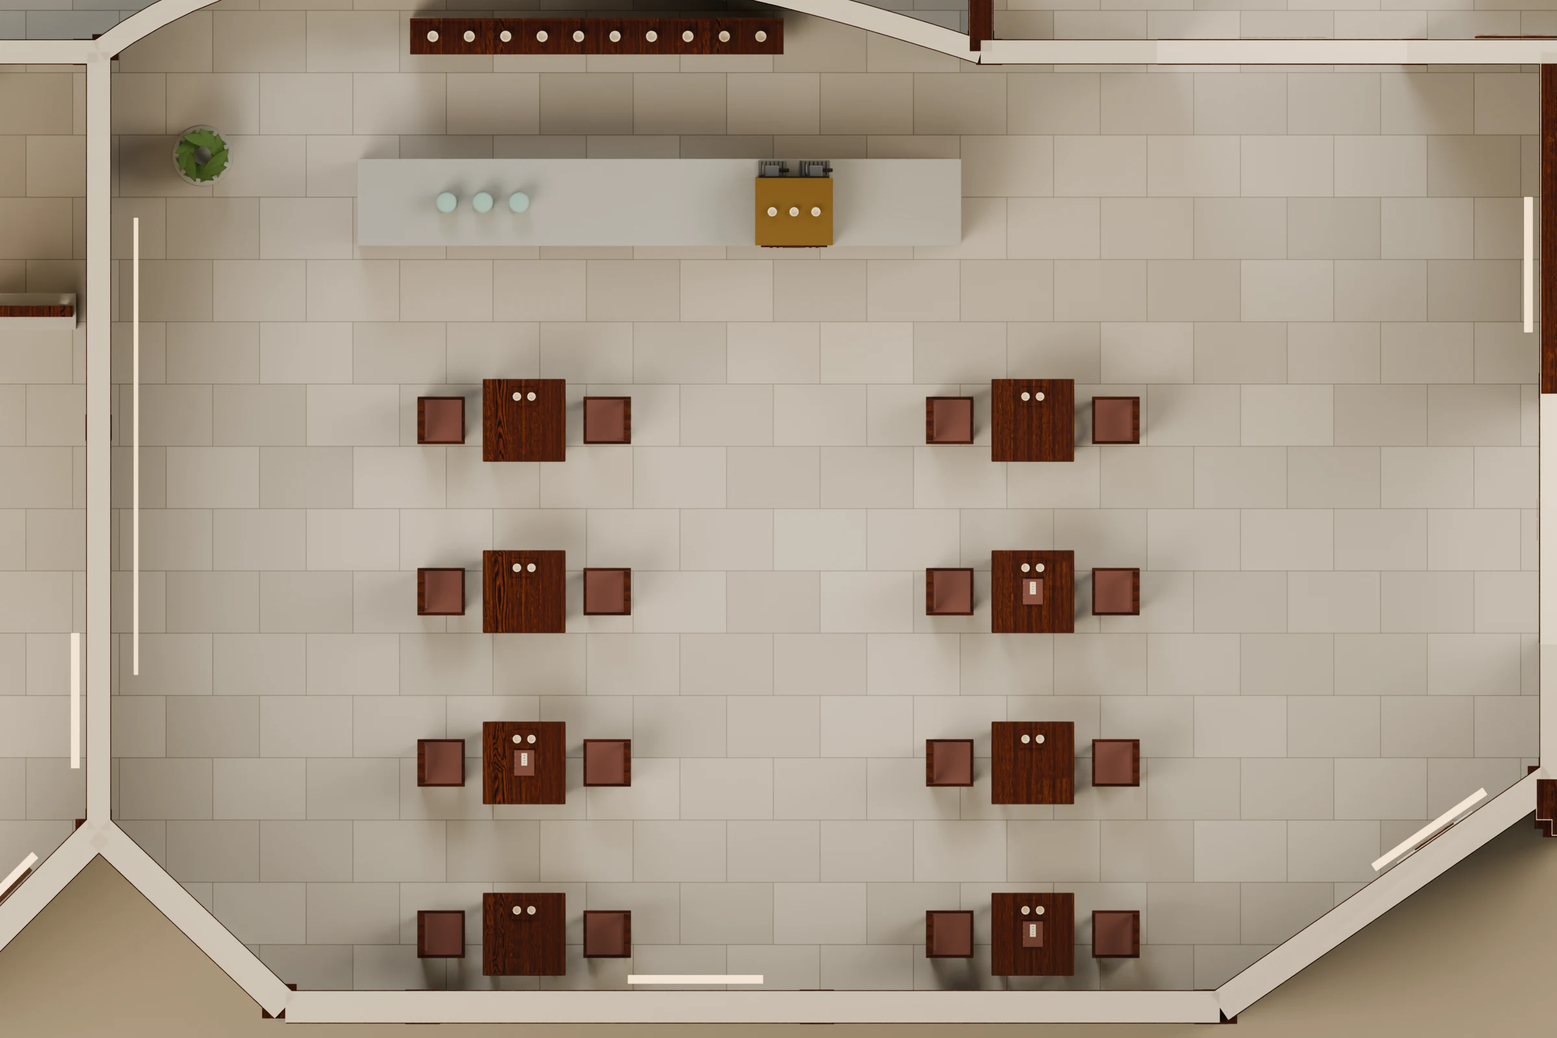
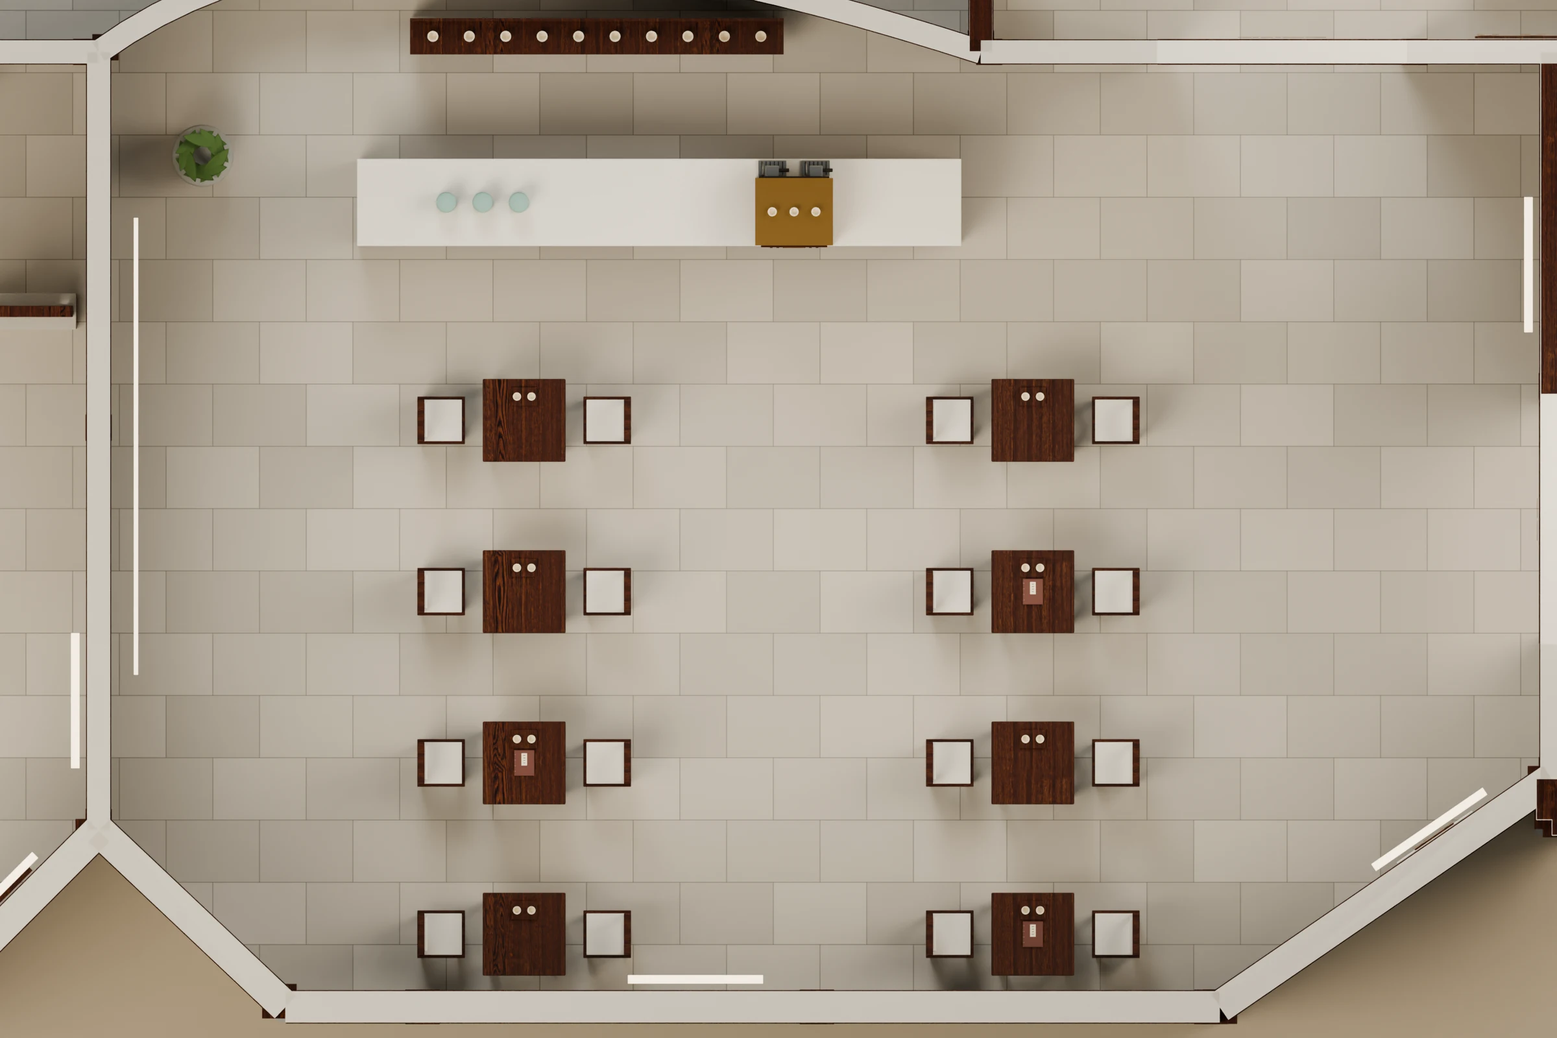
Publish r29 unified gallery materials and lighting

diff --git a/index.html b/index.html
@@ -1,4 +1,4 @@
-<!doctype html><html lang="zh-CN"><head><meta charset="utf-8"><meta name="viewport" content="width=device-width,initial-scale=1"><title>莞香展馆 · 寻香厅弧墙与互动长台 r27</title><style>
+<!doctype html><html lang="zh-CN"><head><meta charset="utf-8"><meta name="viewport" content="width=device-width,initial-scale=1"><title>莞香展馆 · 全馆色调统一 r29</title><style>
 :root{--paper:#f1eade;--ink:#392e24;--muted:#74654f;--line:#cbbcaa;--accent:#75543b}
 *{box-sizing:border-box}html{scroll-behavior:smooth;scroll-padding-top:24px}body{margin:0;background:var(--paper);color:var(--ink);font:16px/1.8 "Microsoft YaHei","PingFang SC",sans-serif}::selection{background:#dcc19b;color:#2c2016}body{scrollbar-color:#9c8469 var(--paper)}a{color:inherit;text-underline-offset:5px}button,a{touch-action:manipulation}a:focus-visible,button:focus-visible{outline:3px solid #8d5132;outline-offset:5px}main{max-width:1280px;margin:auto;padding:36px 38px 28px}header{display:flex;justify-content:space-between;align-items:baseline;gap:20px;padding-bottom:18px;border-bottom:1px solid var(--line)}header span{color:var(--muted);font-size:14px}h1,h2,h3{font-family:"Songti SC","SimSun",serif;font-weight:500;text-wrap:balance}h1{font-size:clamp(32px,4.6vw,54px);line-height:1.25;margin:0}h2{font-size:32px;line-height:1.35;margin:0 0 16px}h3{font-size:24px;line-height:1.4;margin:0 0 10px}p{max-width:70ch;margin:12px 0}nav{display:flex;flex-wrap:wrap;gap:12px;margin:22px 0 26px}.button,button{font:inherit;line-height:1.4;border:1px solid var(--accent);padding:12px 19px;background:transparent;color:var(--ink);cursor:pointer;text-decoration:none;min-height:46px}.button:hover,button:hover{background:#e4d7c3}.primary,button[aria-pressed=true]{background:var(--ink);color:var(--paper)}.primary:hover,button[aria-pressed=true]:hover{background:#57412e}figure{margin:0}figure img{display:block;width:100%;height:auto;background:#d8cebc}figure>a{display:block}.hero{margin-top:0}figcaption{color:var(--muted);font-size:14px;padding-top:9px}section{margin-top:64px}.intro{font-size:18px;line-height:1.8;max-width:66ch}.pair{display:grid;grid-template-columns:1fr 1fr;gap:28px}.changes{display:grid;grid-template-columns:1fr 1fr;gap:32px;margin-top:30px}.changes p{margin-top:0}.plan-tools{display:flex;flex-wrap:wrap;gap:10px;margin:20px 0}.plan{background:#f4eee3;max-width:900px;margin:0 auto}.plan svg{width:100%;height:auto;display:block}.visually-off{display:none}.route-caption{color:var(--muted);margin-top:12px}.note{border-top:1px solid var(--line);padding-top:22px;margin-top:32px;color:var(--muted)}footer{border-top:1px solid var(--line);margin-top:64px;padding-top:20px;display:flex;justify-content:space-between;gap:20px;color:var(--muted);font-size:14px}.top-image{max-width:920px;margin:auto}details{margin-top:22px}summary{cursor:pointer;min-height:44px;padding:8px 0}details p{color:var(--muted)}@media(max-width:700px){main{padding:22px 18px}header{display:block}header span{display:block;margin-top:10px}h1{font-size:34px}h2{font-size:27px}.intro{font-size:16px}.pair,.changes{grid-template-columns:1fr;gap:28px}section{margin-top:44px}nav{gap:9px}.button,button{padding:11px 13px}.plan{margin:0 -8px}footer{display:block}.route-caption{font-size:14px}}@media(prefers-reduced-motion:reduce){html{scroll-behavior:auto}}
 
@@ -6,4 +6,5 @@ figure{margin-top:20px}.sheet-links{display:flex;flex-wrap:wrap;gap:12px;margin-
 :focus-visible{outline:3px solid #93601f;outline-offset:5px}a:active{opacity:.75}html{color-scheme:light}.button{min-height:48px}figure a{border-radius:6px;overflow:hidden}.meta{font-size:16px;color:var(--muted)}
 
 .compare{display:grid;grid-template-columns:1fr 1fr;gap:22px}.compare figure{margin:0}.compare figcaption{padding:8px 0}summary{font-size:18px;padding:12px 0;min-height:48px;cursor:pointer}@media(max-width:700px){.compare{grid-template-columns:1fr}}
-</style></head><body data-release="r27-20261016"><main><header><h1>循香入庭，围坐知香</h1><span>莞香展馆 · r27 模型预览</span></header><p class="intro">已按确认的平面更新寻香厅：圆景与壁龛融入弧墙，主陈列墙连接香市故事，6席互动长台承接观察与讲述。</p><p class="meta">实际模型视图 · 寻香66件／组 · 全馆400件／组 · 60 × 40厘米底板 · 1:100</p><nav aria-label="模型视角"><a class="button primary" href="#gallery">寻香全貌</a><a class="button" href="#circle">弧墙圆景</a><a class="button" href="#interaction">六席互动</a><a class="button" href="#ceiling">局部天花</a><a class="button" href="#plan">正俯布局</a></nav><section id="gallery"><h2>01 · 寻香新貌</h2><p>弧墙圆景、一面主陈列墙、四个中央展台和6席互动长台，共同组织寻香厅。去顶视图。</p><figure><a href="模型预览/31_寻香去顶全貌.png" target="_blank" rel="noopener" aria-label="放大寻香新貌"><img src="网页图像/31_寻香去顶全貌.webp" width="2400" height="1600" fetchpriority="high" alt="莞香展馆r27实际模型：寻香新貌"></a><figcaption>点击图片查看原图</figcaption></figure></section><section id="entry"><h2>02 · 入厅 · 墙柜与展台</h2><p>中棕木作与暖灰浅砂底色协调，香市主台形成观看重点。此视图显示室内天花。</p><figure><a href="模型预览/32_入口看全厅.png" target="_blank" rel="noopener" aria-label="放大入厅 · 墙柜与展台"><img src="网页图像/32_入口看全厅.webp" width="2400" height="1600" loading="lazy" alt="莞香展馆r27实际模型：入厅 · 墙柜与展台"></a><figcaption>点击图片查看原图</figcaption></figure></section><section id="circle"><h2>03 · 弧墙 · 莞香源流</h2><p>封闭圆形景框结合莞香枝叶浅浮雕，前后两个局部壁龛呈现香材、工具与人物。</p><figure><a href="模型预览/33_弧墙圆景与嵌龛.png" target="_blank" rel="noopener" aria-label="放大弧墙 · 莞香源流"><img src="网页图像/33_弧墙圆景与嵌龛.webp" width="2400" height="1600" loading="lazy" alt="莞香展馆r27实际模型：弧墙 · 莞香源流"></a><figcaption>点击图片查看原图</figcaption></figure></section><section id="wall"><h2>04 · 主墙 · 香市与贸易</h2><p>7.15米连续墙柜整合储藏、双层陈列、香市图景和运输图景。</p><figure><a href="模型预览/34_一体主陈列墙.png" target="_blank" rel="noopener" aria-label="放大主墙 · 香市与贸易"><img src="网页图像/34_一体主陈列墙.webp" width="2400" height="1600" loading="lazy" alt="莞香展馆r27实际模型：主墙 · 香市与贸易"></a><figcaption>点击图片查看原图</figcaption></figure></section><section id="interaction"><h2>05 · 围坐 · 观察与讲述</h2><p>6席位于长台同一侧，讲解者在对侧操作；香材观察、复制工具和模拟交易分成三个托盘。</p><figure><a href="模型预览/35_互动长台与圆景.png" target="_blank" rel="noopener" aria-label="放大围坐 · 观察与讲述"><img src="网页图像/35_互动长台与圆景.webp" width="2400" height="1600" loading="lazy" alt="莞香展馆r27实际模型：围坐 · 观察与讲述"></a><figcaption>点击图片查看原图</figcaption></figure></section><section id="seats"><h2>06 · 长台 · 六席单侧</h2><p>4.6米长台配6把木椅，桌下保留膝部空间，对侧安排浅储物柜。</p><figure><a href="模型预览/36_六席互动长台.png" target="_blank" rel="noopener" aria-label="放大长台 · 六席单侧"><img src="网页图像/36_六席互动长台.webp" width="2400" height="1600" loading="lazy" alt="莞香展馆r27实际模型：长台 · 六席单侧"></a><figcaption>点击图片查看原图</figcaption></figure></section><section id="islands"><h2>07 · 陈列 · 一主三辅</h2><p>主台聚焦香市街铺，三个辅台分别呈现香农货包、陆路运输与水运码头。</p><figure><a href="模型预览/37_主辅展台.png" target="_blank" rel="noopener" aria-label="放大陈列 · 一主三辅"><img src="网页图像/37_主辅展台.webp" width="2400" height="1600" loading="lazy" alt="莞香展馆r27实际模型：陈列 · 一主三辅"></a><figcaption>点击图片查看原图</figcaption></figure></section><section id="ceiling"><h2>08 · 天花 · 局部木格</h2><p>木格集中在互动长台上方，其余顶面采用暖浅底色。室内天花独立成组，可单独隐藏。</p><figure><a href="模型预览/38_局部木格天花.png" target="_blank" rel="noopener" aria-label="放大天花 · 局部木格"><img src="网页图像/38_局部木格天花.webp" width="2400" height="1600" loading="lazy" alt="莞香展馆r27实际模型：天花 · 局部木格"></a><figcaption>点击图片查看原图</figcaption></figure></section><section id="plan"><h2>09 · 正俯 · 陈列与通行</h2><p>按已确认的r26平面落位，门洞与借景窗延续。主参观线贯穿寻香，互动在侧边展开。</p><figure><a href="模型预览/39_寻香正俯.png" target="_blank" rel="noopener" aria-label="放大正俯 · 陈列与通行"><img src="网页图像/39_寻香正俯.webp" width="2400" height="2400" loading="lazy" alt="莞香展馆r27实际模型：正俯 · 陈列与通行"></a><figcaption>点击图片查看原图</figcaption></figure></section><section id="overview"><h2>10 · 全馆 · 连续游园</h2><p>寻香厅与已确认的全馆布局相连。400件或组拟展内容延续，新增互动教学道具单独登记。</p><figure><a href="模型预览/01_去顶整体.png" target="_blank" rel="noopener" aria-label="放大全馆 · 连续游园"><img src="网页图像/01_去顶整体.webp" width="2400" height="1600" loading="lazy" alt="莞香展馆r27实际模型：全馆 · 连续游园"></a><figcaption>点击图片查看原图</figcaption></figure></section><section id="portal"><h2>11 · 入口 · 岭南香庭</h2><p>入口青砖、木匾与壁灯延续。</p><figure><a href="模型预览/13_岭南入口正面.png" target="_blank" rel="noopener" aria-label="放大入口 · 岭南香庭"><img src="网页图像/13_岭南入口正面.webp" width="2400" height="1600" loading="lazy" alt="莞香展馆r27实际模型：入口 · 岭南香庭"></a><figcaption>点击图片查看原图</figcaption></figure></section><section id="wc"><h2>12 · 配套 · 两个独立厕位</h2><p>两座马桶、双盆洗手区及门扇安排延续。</p><figure><a href="模型预览/17_卫生间去顶.png" target="_blank" rel="noopener" aria-label="放大配套 · 两个独立厕位"><img src="网页图像/17_卫生间去顶.webp" width="2400" height="1600" loading="lazy" alt="莞香展馆r27实际模型：配套 · 两个独立厕位"></a><figcaption>点击图片查看原图</figcaption></figure></section><section id="cafe"><h2>13 · 咖啡 · 四对桌椅</h2><p>咖啡8张双人桌、16席，原传香手作区8席延续。</p><figure><a href="模型预览/11_咖啡对称布局.png" target="_blank" rel="noopener" aria-label="放大咖啡 · 四对桌椅"><img src="网页图像/11_咖啡对称布局.webp" width="2400" height="1600" loading="lazy" alt="莞香展馆r27实际模型：咖啡 · 四对桌椅"></a><figcaption>点击图片查看原图</figcaption></figure></section><section><h2>平面依据</h2><a class="button" href="GX_寻香厅已确认平面_r26.pdf" target="_blank" rel="noopener">查看已确认的两页平面</a></section><footer><span>莞香展馆 · 寻香厅弧墙与互动长台 r27</span><span>2026.10.16 · 待模型审核</span></footer></main></body></html>
+
+.compare{display:grid;grid-template-columns:1fr 1fr;gap:18px}.compare figure{margin:0}.compare img{width:100%;height:auto}.compare figcaption{padding:8px 0}@media(max-width:700px){.compare{grid-template-columns:1fr}}</style></head><body data-release="r29-20261016"><main><header><h1>一馆同色，温润相连</h1><span>莞香展馆 · r29 模型预览</span></header><p class="intro">以新版寻香厅为基准，统一全馆颜色、材质和灯光。原有布局、造型、尺寸与物品位置保持。</p><p class="meta">实际模型视图 · 全馆400件／组 · 寻香6席 · 手作8席 · 咖啡16席 · 60 × 40厘米底板 · 1:100</p><nav aria-label="模型视角"><a class="button primary" href="#overview">全馆总览</a><a class="button" href="#comparison">前后对照</a><a class="button" href="#main">香器主厅</a><a class="button" href="#cafe">咖啡休憩</a></nav><section id="overview"><h2>01 · 全馆 · 同一色调</h2><p>米灰浅砂与温润中棕木作贯穿全馆，原有布局、造型与陈列位置延续。</p><figure><a href="模型预览/01_去顶整体.png?v=r29-20261016" target="_blank" rel="noopener" aria-label="放大全馆 · 同一色调"><img src="网页图像/01_去顶整体.webp?v=r29-20261016" width="2400" height="1600" fetchpriority="high" alt="莞香展馆r29实际模型：全馆 · 同一色调"></a><figcaption>点击图片查看原图</figcaption></figure></section><section id="history"><h2>02 · 寻香 · 统一基准</h2><p>寻香厅的弧墙圆景、墙柜、主辅展台与六席长台，作为全馆色调参照；此图显示已有独立天花。</p><figure><a href="模型预览/32_入口看全厅.png?v=r29-20261016" target="_blank" rel="noopener" aria-label="放大寻香 · 统一基准"><img src="网页图像/32_入口看全厅.webp?v=r29-20261016" width="2400" height="1600" loading="lazy" alt="莞香展馆r29实际模型：寻香 · 统一基准"></a><figcaption>点击图片查看原图</figcaption></figure></section><section id="transition"><h2>03 · 相接 · 寻香至识香</h2><p>相邻空间的墙色、柜体与铺装连续衔接，原门洞和参观路线保持。</p><figure><a href="模型预览/40_寻香识香交界.png?v=r29-20261016" target="_blank" rel="noopener" aria-label="放大相接 · 寻香至识香"><img src="网页图像/40_寻香识香交界.webp?v=r29-20261016" width="2400" height="1600" loading="lazy" alt="莞香展馆r29实际模型：相接 · 寻香至识香"></a><figcaption>点击图片查看原图</figcaption></figure></section><section id="botany"><h2>04 · 识香 · 香材与标本</h2><p>浅色展台配中棕木框，香材、树体剖面及标本保留各自材质。</p><figure><a href="模型预览/05_识香陈列.png?v=r29-20261016" target="_blank" rel="noopener" aria-label="放大识香 · 香材与标本"><img src="网页图像/05_识香陈列.webp?v=r29-20261016" width="2400" height="1600" loading="lazy" alt="莞香展馆r29实际模型：识香 · 香材与标本"></a><figcaption>点击图片查看原图</figcaption></figure></section><section id="main"><h2>05 · 品香 · 香器主厅</h2><p>展台大面协调为浅砂色，保留木作层次和器物原色。</p><figure><a href="模型预览/02_主厅整体.png?v=r29-20261016" target="_blank" rel="noopener" aria-label="放大品香 · 香器主厅"><img src="网页图像/02_主厅整体.webp?v=r29-20261016" width="2400" height="1600" loading="lazy" alt="莞香展馆r29实际模型：品香 · 香器主厅"></a><figcaption>点击图片查看原图</figcaption></figure></section><section id="mainplan"><h2>06 · 主厅 · 原位陈列</h2><p>中轴与成对展位的位置、高低、尺寸保持。</p><figure><a href="模型预览/12_主厅陈列布局.png?v=r29-20261016" target="_blank" rel="noopener" aria-label="放大主厅 · 原位陈列"><img src="网页图像/12_主厅陈列布局.webp?v=r29-20261016" width="2400" height="1600" loading="lazy" alt="莞香展馆r29实际模型：主厅 · 原位陈列"></a><figcaption>点击图片查看原图</figcaption></figure></section><section id="smell"><h2>07 · 闻香 · 柔和光线</h2><p>延续现有体验台及样品柜，协调暖浅表面与局部灯光。</p><figure><a href="模型预览/41_闻香陈列.png?v=r29-20261016" target="_blank" rel="noopener" aria-label="放大闻香 · 柔和光线"><img src="网页图像/41_闻香陈列.webp?v=r29-20261016" width="2400" height="1600" loading="lazy" alt="莞香展馆r29实际模型：闻香 · 柔和光线"></a><figcaption>点击图片查看原图</figcaption></figure></section><section id="workshop"><h2>08 · 传香 · 八席手作</h2><p>现有桌椅统一中棕木色与浅色软垫，工具与材料保留。</p><figure><a href="模型预览/07_传香手作.png?v=r29-20261016" target="_blank" rel="noopener" aria-label="放大传香 · 八席手作"><img src="网页图像/07_传香手作.webp?v=r29-20261016" width="2400" height="1600" loading="lazy" alt="莞香展馆r29实际模型：传香 · 八席手作"></a><figcaption>点击图片查看原图</figcaption></figure></section><section id="retail"><h2>09 · 文创 · 香礼陈列</h2><p>既有货架与展台融入同一材料体系，商品内容与陈列保持。</p><figure><a href="模型预览/08_文创陈列.png?v=r29-20261016" target="_blank" rel="noopener" aria-label="放大文创 · 香礼陈列"><img src="网页图像/08_文创陈列.webp?v=r29-20261016" width="2400" height="1600" loading="lazy" alt="莞香展馆r29实际模型：文创 · 香礼陈列"></a><figcaption>点击图片查看原图</figcaption></figure></section><section id="cafe"><h2>10 · 咖啡 · 木色与浅米灰</h2><p>中棕桌椅配浅米灰软包，吧台采用协调的暖浅台面。</p><figure><a href="模型预览/09_咖啡休憩.png?v=r29-20261016" target="_blank" rel="noopener" aria-label="放大咖啡 · 木色与浅米灰"><img src="网页图像/09_咖啡休憩.webp?v=r29-20261016" width="2400" height="1600" loading="lazy" alt="莞香展馆r29实际模型：咖啡 · 木色与浅米灰"></a><figcaption>点击图片查看原图</figcaption></figure></section><section id="cafeseats"><h2>11 · 座席 · 四对桌椅</h2><p>8张双人桌、16席，两列四排对称布置保持。</p><figure><a href="模型预览/11_咖啡对称布局.png?v=r29-20261016" target="_blank" rel="noopener" aria-label="放大座席 · 四对桌椅"><img src="网页图像/11_咖啡对称布局.webp?v=r29-20261016" width="2400" height="1600" loading="lazy" alt="莞香展馆r29实际模型：座席 · 四对桌椅"></a><figcaption>点击图片查看原图</figcaption></figure></section><section id="garden"><h2>12 · 香庭 · 木与石</h2><p>中棕木构连接各厅，暖灰石作与铺装延续；庭院保留现有无树布置。</p><figure><a href="模型预览/03_香庭回廊.png?v=r29-20261016" target="_blank" rel="noopener" aria-label="放大香庭 · 木与石"><img src="网页图像/03_香庭回廊.webp?v=r29-20261016" width="2400" height="1600" loading="lazy" alt="莞香展馆r29实际模型：香庭 · 木与石"></a><figcaption>点击图片查看原图</figcaption></figure></section><section id="entrance"><h2>13 · 序厅 · 岭南园意</h2><p>月洞、花格与主题叶雕保留原形，墙面及木作色调协调。</p><figure><a href="模型预览/14_序厅入园.png?v=r29-20261016" target="_blank" rel="noopener" aria-label="放大序厅 · 岭南园意"><img src="网页图像/14_序厅入园.webp?v=r29-20261016" width="2400" height="1600" loading="lazy" alt="莞香展馆r29实际模型：序厅 · 岭南园意"></a><figcaption>点击图片查看原图</figcaption></figure></section><section id="wc"><h2>14 · 配套 · 原位延续</h2><p>两个独立厕位、双盆及隔断原位保留，砖石和洁具延续材质属性。</p><figure><a href="模型预览/17_卫生间去顶.png?v=r29-20261016" target="_blank" rel="noopener" aria-label="放大配套 · 原位延续"><img src="网页图像/17_卫生间去顶.webp?v=r29-20261016" width="2400" height="1600" loading="lazy" alt="莞香展馆r29实际模型：配套 · 原位延续"></a><figcaption>点击图片查看原图</figcaption></figure></section><section id="comparison"><h2>同机位 · 修改前后对照</h2><p>采用相同机位与曝光查看环境材质和光色变化。左侧为修改前 r27，右侧为当前 r29；手机上按前后顺序显示。</p><h3>全馆总览</h3><div class="compare"><figure><a href="修改前对照/01_去顶整体.png?v=r29-20261016" target="_blank" rel="noopener" aria-label="放大全馆总览修改前 · r27"><img loading="lazy" src="修改前对照/01_去顶整体.webp?v=r29-20261016" width="2400" height="1600" alt="全馆总览，修改前 · r27"></a><figcaption>修改前 · r27</figcaption></figure><figure><a href="模型预览/01_去顶整体.png?v=r29-20261016" target="_blank" rel="noopener" aria-label="放大全馆总览修改后 · r29"><img loading="lazy" src="网页图像/01_去顶整体.webp?v=r29-20261016" width="2400" height="1600" alt="全馆总览，修改后 · r29"></a><figcaption>修改后 · r29</figcaption></figure></div><h3>香器主厅</h3><div class="compare"><figure><a href="修改前对照/02_主厅整体.png?v=r29-20261016" target="_blank" rel="noopener" aria-label="放大香器主厅修改前 · r27"><img loading="lazy" src="修改前对照/02_主厅整体.webp?v=r29-20261016" width="2400" height="1600" alt="香器主厅，修改前 · r27"></a><figcaption>修改前 · r27</figcaption></figure><figure><a href="模型预览/02_主厅整体.png?v=r29-20261016" target="_blank" rel="noopener" aria-label="放大香器主厅修改后 · r29"><img loading="lazy" src="网页图像/02_主厅整体.webp?v=r29-20261016" width="2400" height="1600" alt="香器主厅，修改后 · r29"></a><figcaption>修改后 · r29</figcaption></figure></div><h3>咖啡休憩</h3><div class="compare"><figure><a href="修改前对照/09_咖啡休憩.png?v=r29-20261016" target="_blank" rel="noopener" aria-label="放大咖啡休憩修改前 · r27"><img loading="lazy" src="修改前对照/09_咖啡休憩.webp?v=r29-20261016" width="2400" height="1600" alt="咖啡休憩，修改前 · r27"></a><figcaption>修改前 · r27</figcaption></figure><figure><a href="模型预览/09_咖啡休憩.png?v=r29-20261016" target="_blank" rel="noopener" aria-label="放大咖啡休憩修改后 · r29"><img loading="lazy" src="网页图像/09_咖啡休憩.webp?v=r29-20261016" width="2400" height="1600" alt="咖啡休憩，修改后 · r29"></a><figcaption>修改后 · r29</figcaption></figure></div><h3>寻香与识香衔接</h3><div class="compare"><figure><a href="修改前对照/40_寻香识香交界.png?v=r29-20261016" target="_blank" rel="noopener" aria-label="放大寻香与识香衔接修改前 · r27"><img loading="lazy" src="修改前对照/40_寻香识香交界.webp?v=r29-20261016" width="2400" height="1600" alt="寻香与识香衔接，修改前 · r27"></a><figcaption>修改前 · r27</figcaption></figure><figure><a href="模型预览/40_寻香识香交界.png?v=r29-20261016" target="_blank" rel="noopener" aria-label="放大寻香与识香衔接修改后 · r29"><img loading="lazy" src="网页图像/40_寻香识香交界.webp?v=r29-20261016" width="2400" height="1600" alt="寻香与识香衔接，修改后 · r29"></a><figcaption>修改后 · r29</figcaption></figure></div></section><footer><span>莞香展馆 · 全馆色调与材质统一 r29</span><span>2026.10.16 · 供模型审核</span></footer></main></body></html>
